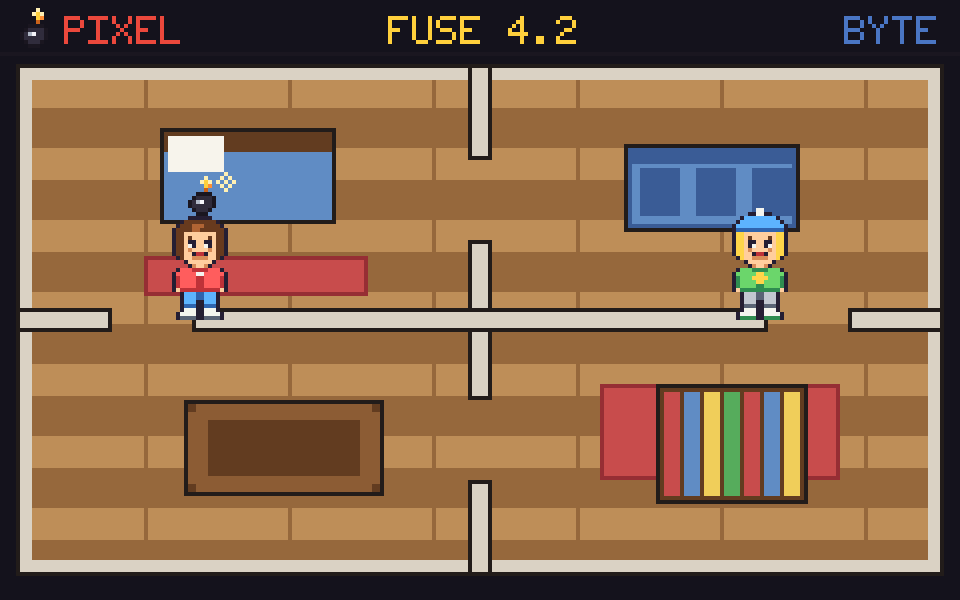
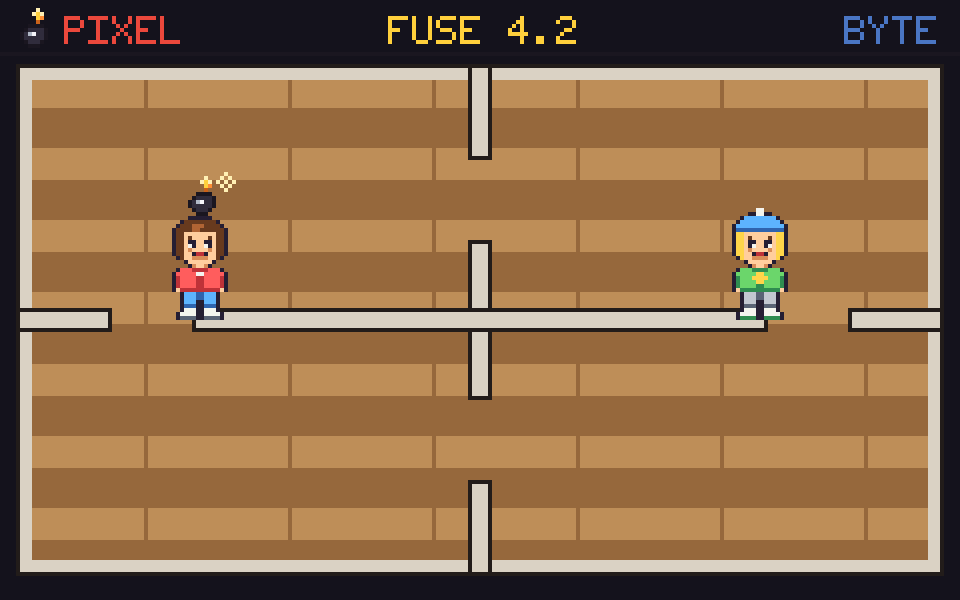
Hot Potato house map: remove all furniture (empty rooms)
Clear the bed/sofa/table/shelf and rugs from the house-interior map;
HOUSE_FURN is now empty so it drops from both the art and collision.
The map is now four clean rooms connected by doorway gaps in the walls.

Claude-Session: https://claude.ai/code/session_01BmHu9ZjHHfJoGBLXT33Kpc

diff --git a/art/hotpotato.py b/art/hotpotato.py
@@ -372,8 +372,7 @@ HOUSE_WALLS = [
     (_VW0, FY, _VW1, FY + 24), (_VW0, FY + 44, _VW1, FY + FH - 44), (_VW0, FY + FH - 24, _VW1, FY + FH),
     (FX, _HW0, FX + 24, _HW1), (FX + 44, _HW0, FX + FW - 44, _HW1), (FX + FW - 24, _HW0, FX + FW, _HW1),
 ]
-HOUSE_FURN = [(40, 32, 84, 56, "bed"), (156, 36, 200, 58, "sofa"),
-              (46, 100, 96, 124, "table"), (164, 96, 202, 126, "shelf")]
+HOUSE_FURN = []          # empty rooms — no furniture
 
 def _furn(px, W, H, x0, y0, x1, y1, k):
     if k == "bed":
@@ -404,8 +403,6 @@ def _draw_house(img, bomb=True, players=True):
         for x in range(FX, FX + FW): sp(px, W, H, x, FY + t, hcol("Wl")); sp(px, W, H, x, FY + FH - 1 - t, hcol("Wl"))
         for y in range(FY, FY + FH): sp(px, W, H, FX + t, y, hcol("Wl")); sp(px, W, H, FX + FW - 1 - t, y, hcol("Wl"))
     orect(px, W, H, FX, FY, FX + FW, FY + FH, hcol("K"), 1)
-    for (rx0, ry0, rx1, ry1) in [(36, 64, 92, 74), (150, 96, 210, 120)]:  # small rugs (decor)
-        rectf(px, W, H, rx0, ry0, rx1, ry1, hcol("Rg")); orect(px, W, H, rx0, ry0, rx1, ry1, hcol("rg"))
     for (x0, y0, x1, y1) in HOUSE_WALLS:                  # walls
         rectf(px, W, H, x0, y0, x1, y1, hcol("Wl"))
         for x in range(x0, x1): sp(px, W, H, x, y0, hcol("W"))
